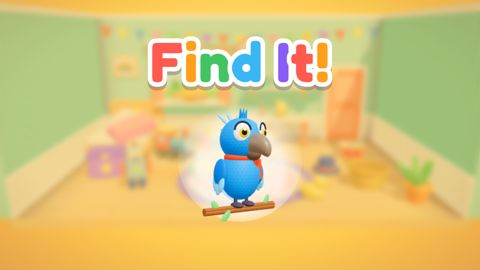
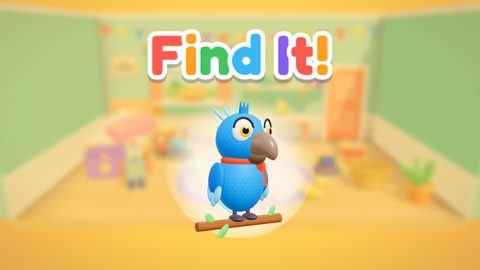
Sharper Find It! cover
Claude-Session: https://claude.ai/code/session_019s9hMMPt3oNbWJ7gLhq9QP

Changed region(s): [[0.2812, 0.0889, 0.7188, 0.8889]]

diff --git a/index.html b/index.html
@@ -188,7 +188,7 @@ footer small{display:block;margin-top:22px;font-size:13px}
   <div class="wrap">
     <article class="feature">
       <div class="fmedia kmedia">
-        <img id="kmain" src="img/kiki-cover.jpg" alt="Find It! — Kiki the parrot" width="1600" height="900">
+        <img id="kmain" src="img/kiki-cover.jpg?v=2" alt="Find It! — Kiki the parrot" width="1600" height="900">
         <span class="tag tl"><i class="soon-dot"></i><span data-en="Coming soon" data-ru="Скоро">Coming soon</span></span>
       </div>
       <div class="kthumbs" role="group" aria-label="Locations">
